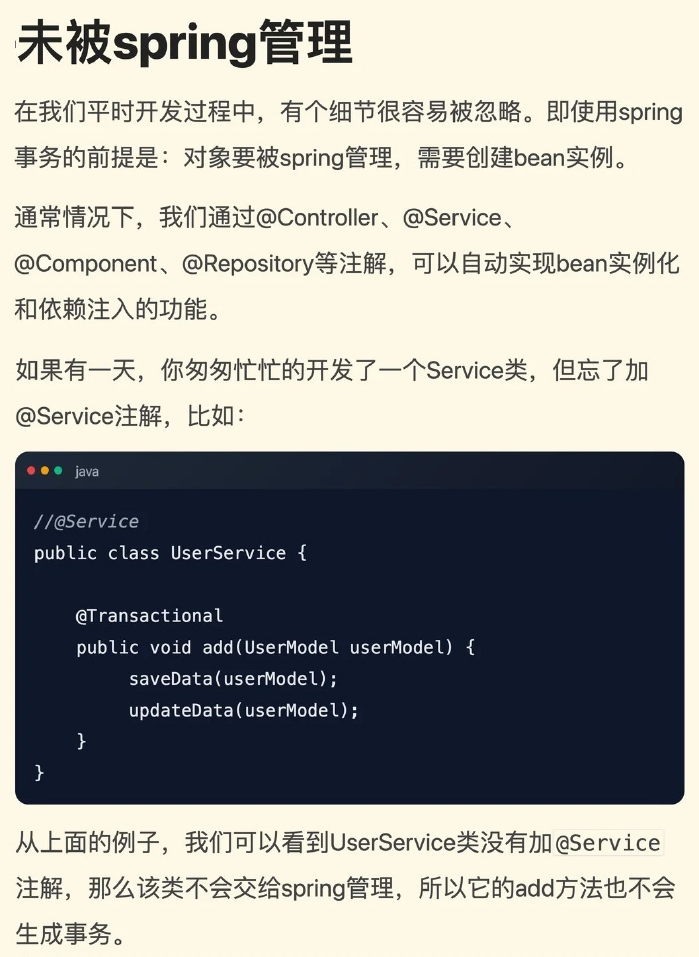
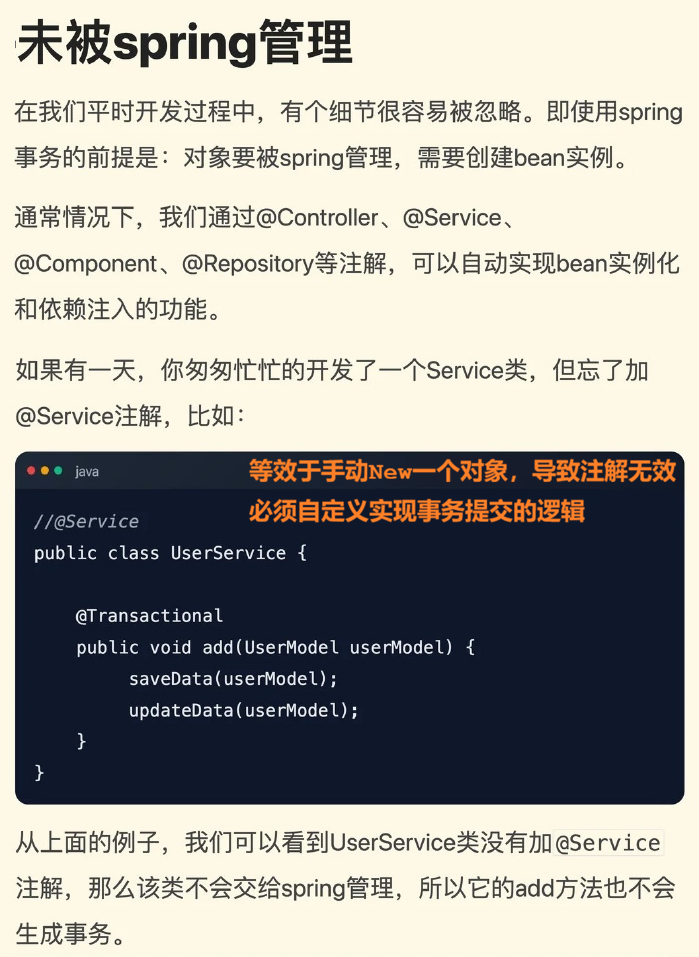
update spring data jpa

Changed region(s): [[0.3605, 0.4545, 0.9614, 0.5455]]

diff --git a/spring-data-jpa/src/main/java/demo/controller/UserSpecController.java b/spring-data-jpa/src/main/java/demo/controller/UserSpecController.java
@@ -1,0 +1,30 @@
+package demo.controller;
+
+import demo.entity.User;
+import demo.service.UserSpecificationService;
+import org.springframework.web.bind.annotation.*;
+
+import java.util.List;
+
+@RestController
+public class UserSpecController {
+
+    private final UserSpecificationService userSpecService;
+
+    public UserSpecController(UserSpecificationService userSpecService) {
+        this.userSpecService = userSpecService;
+    }
+
+    // http://localhost:8080/user/creation?email=[email]&name=[name]
+    @PostMapping("/user-spec/creation")
+    public String create(@RequestParam("email") String email, @RequestParam("name") String name) {
+        User user = new User(email, name);
+        User userSaved = this.userSpecService.save(user);
+        return "Create user with id = " + userSaved.getId();
+    }
+
+    @GetMapping("/user-spec/{name}")
+    public List<User> findByNameLike(@PathVariable("name") String name) {
+        return this.userSpecService.getUsersByNameLike(name);
+    }
+}

diff --git a/spring-data-jpa/src/main/java/demo/controller/UserController.java b/spring-data-jpa/src/main/java/demo/controller/UserController.java
@@ -1,30 +1,23 @@
 package demo.controller;
 
 import demo.entity.User;
-import demo.service.UserSpecificationService;
-import org.springframework.web.bind.annotation.*;
-
-import java.util.List;
+import demo.service.UserService;
+import org.springframework.web.bind.annotation.GetMapping;
+import org.springframework.web.bind.annotation.PathVariable;
+import org.springframework.web.bind.annotation.RestController;
 
 @RestController
 public class UserController {
 
-    private final UserSpecificationService userService;
+    private final UserService userService;
 
-    public UserController(UserSpecificationService userService) {
+    public UserController(UserService userService) {
         this.userService = userService;
     }
 
-    // http://localhost:8080/user/creation?email=[email]&name=[name]
-    @PostMapping("/user/creation")
-    public String create(@RequestParam("email") String email, @RequestParam("name") String name) {
-        User user = new User(email, name);
-        this.userService.save(user);
-        return "Create user with id = " + user.getId();
-    }
-
-    @GetMapping("/user/{name}")
-    public List<User> findByNameLike(@PathVariable("name") String name) {
-        return this.userService.getUsersByNameLike(name);
+    @GetMapping("/user/{email}")
+    public User findByName(@PathVariable("email") String email) {
+        System.out.println(email);
+        return this.userService.findUserByEmail(email);
     }
 }

diff --git a/spring-data-jpa/src/main/java/demo/transaction/TransactionPropagation.java b/spring-data-jpa/src/main/java/demo/transaction/TransactionPropagation.java
@@ -5,6 +5,18 @@ import org.springframework.transaction.annotation.Propagation;
 import org.springframework.transaction.annotation.Transactional;
 
 @Component
+class ExtraClass {
+
+    // TODO. 事务的传播设置: 定义外层事务应该如何被传递到当前事务中
+    // REQUIRED表示外层事务必须有，且当前事务应该被添加到外层事务中
+    @Transactional(propagation = Propagation.REQUIRED)
+    public void runExtraMethod() {
+        System.out.println("Run outer extra method");
+        // jdbcTemplate.execute("insert ...");
+    }
+}
+
+@Component
 public class TransactionPropagation {
 
     private final ExtraClass extraClass;
@@ -18,17 +30,5 @@ public class TransactionPropagation {
     public void runOuterMethod() {
         extraClass.runExtraMethod();
         System.out.println("Done");
-    }
-
-    @Component
-    class ExtraClass {
-
-        // TODO. 事务的传播设置: 定义外层事务应该如何被传递到当前事务中
-        // REQUIRED表示外层事务必须有，且当前事务应该被添加到外层事务中
-        @Transactional(propagation = Propagation.REQUIRED)
-        public void runExtraMethod() {
-            System.out.println("Run outer extra method");
-            // jdbcTemplate.execute("insert ...");
-        }
     }
 }

diff --git a/spring-data-jpa/src/main/java/demo/service/UserService.java b/spring-data-jpa/src/main/java/demo/service/UserService.java
@@ -1,0 +1,19 @@
+package demo.service;
+
+import demo.entity.User;
+import demo.repository.UserCrudRepository;
+import org.springframework.stereotype.Service;
+
+@Service
+public class UserService {
+
+    private final UserCrudRepository userCrudRepository;
+
+    public UserService(UserCrudRepository userCrudRepository) {
+        this.userCrudRepository = userCrudRepository;
+    }
+
+    public User findUserByEmail(String email) {
+        return this.userCrudRepository.findByEmail(email);
+    }
+}

diff --git a/spring-data-jpa/src/main/java/demo/repository/UserCrudRepository.java b/spring-data-jpa/src/main/java/demo/repository/UserCrudRepository.java
@@ -14,7 +14,7 @@ import java.util.List;
 @Repository
 public interface UserCrudRepository extends CrudRepository<User, Long>, JpaSpecificationExecutor<User> {
 
-    // 默认的查询与特定的方法名称一致
+    // 自动解析成对应Query来执行
     User findByEmail(String email);
 
     // 提供特殊查询条件Specification来查询结果
@@ -24,7 +24,9 @@ public interface UserCrudRepository extends CrudRepository<User, Long>, JpaSpeci
     @Modifying(clearAutomatically = true)
     void deleteUserByEmail(String email);
 
+    // Modifying自定义执行修改的SQL，设置具名参数名称
     @Modifying
     @Query(value = "update t_users u set u.name = :name where u.email like :e1%", nativeQuery = true)
-    void updateUserNameByEmail(@Param("name") String newName, @Param("e1") String email);
+    void updateUserNameByEmail(@Param("name") String newName,
+                               @Param("e1") String email);
 }

diff --git a/spring-data-jpa/src/main/java/demo/transaction/TransactionUserRepository.java b/spring-data-jpa/src/main/java/demo/transaction/TransactionUserRepository.java
@@ -16,5 +16,5 @@ public interface TransactionUserRepository extends CrudRepository<User, Long> {
 
     // 默认基于RuntimeException异常来回滚
     @Transactional(rollbackFor = RuntimeException.class)
-    User updateByEmail(String email);
+    User deleteUserByEmail(String email);
 }